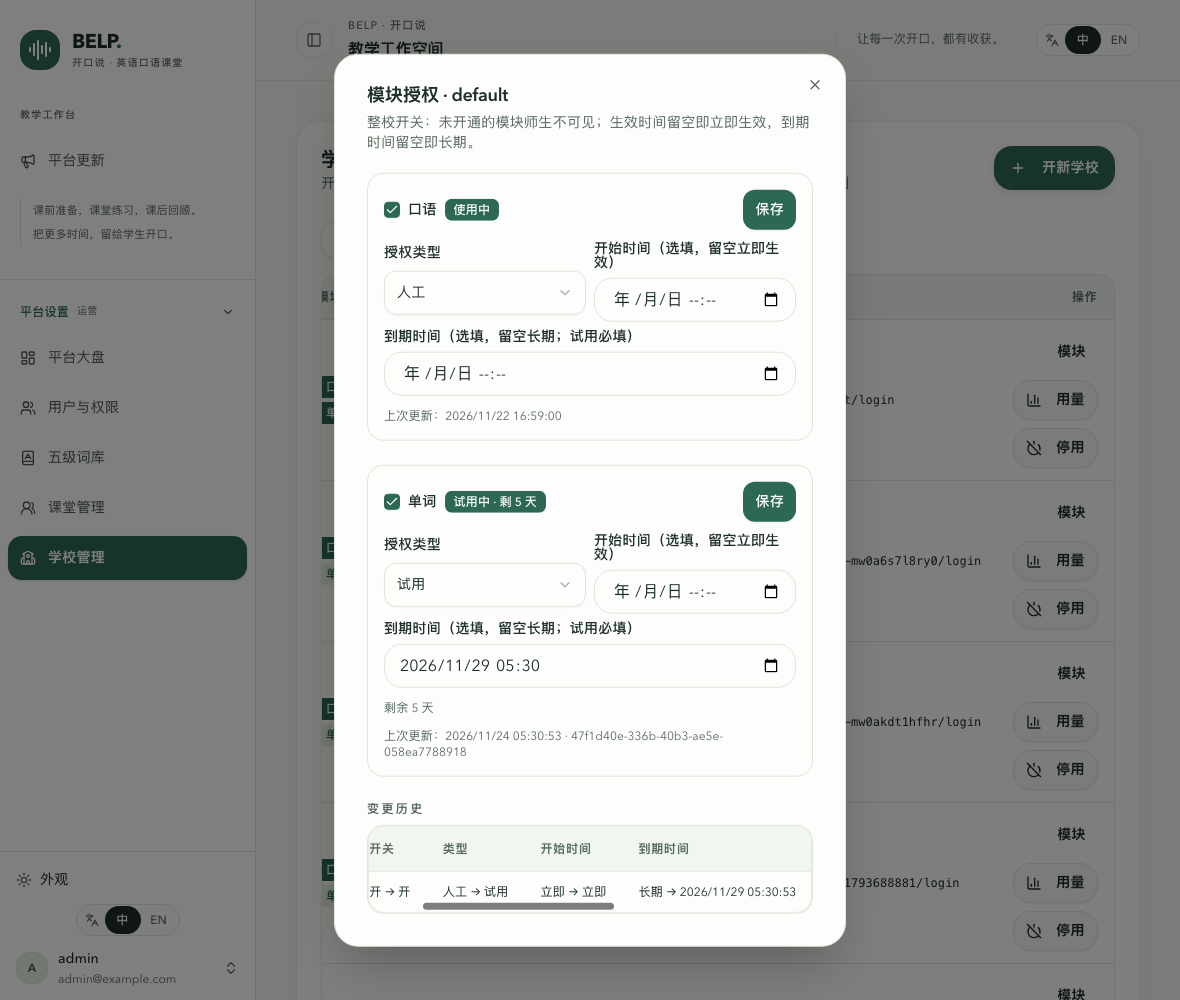
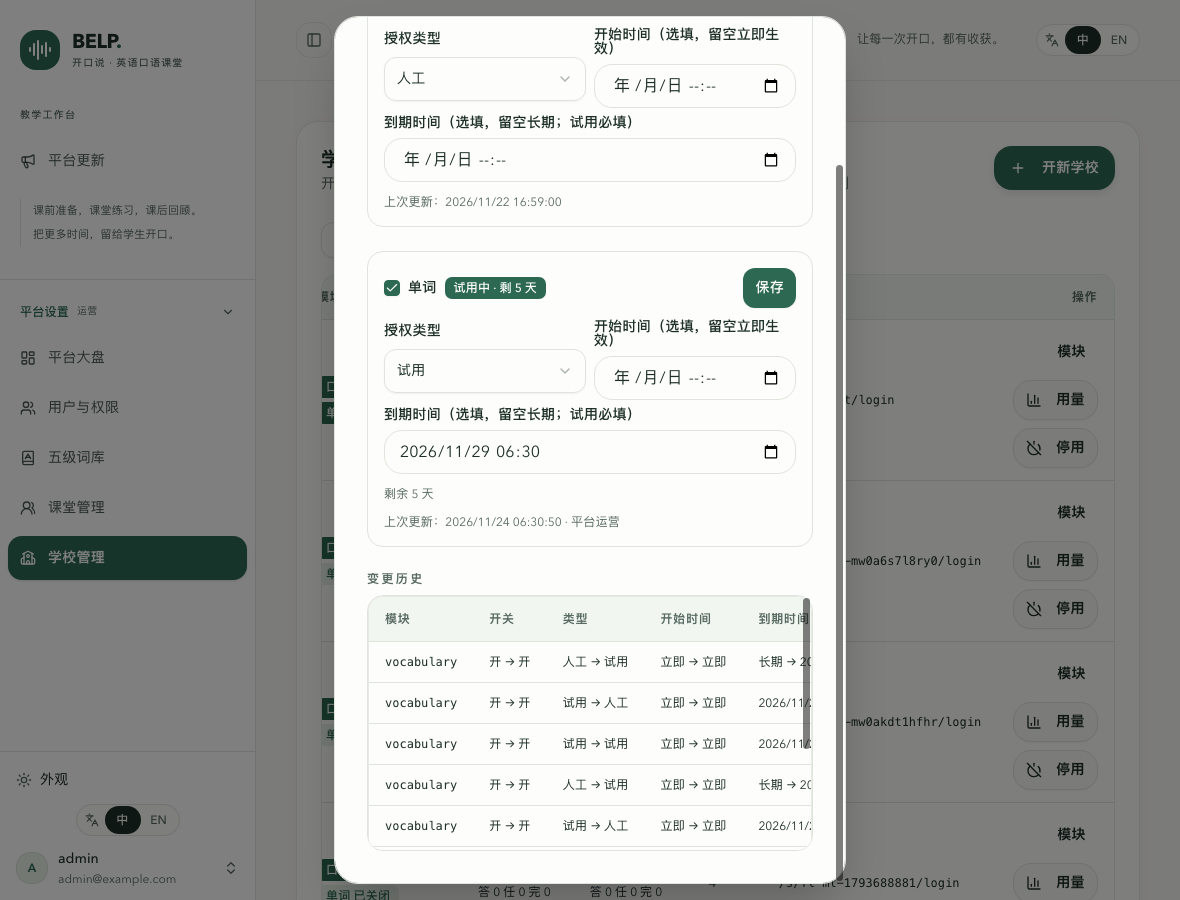
docs(evidence): #517 复拍模块/审计弹窗，操作人显示平台运营、去除 UUID 残留 (#517)

diff --git a/docs/evidence/517-tenant-license-usage-20261124/README.md b/docs/evidence/517-tenant-license-usage-20261124/README.md
@@ -8,8 +8,8 @@
 |---|---|
 | Worktree | `…/agents/o_000VxxkxFsS/tenant-ops` |
 | 分支 | `feat/tenant-license-usage-20261124` |
-| 取证时 HEAD | `2020e7305ba3965531b2cd5c3f1f8a797d1a049f`（英文剩余天数单复数修复：1 天显示 `1 day left`） |
-| 任务基线 HEAD | `e39e4e7`；其上依次为 `4b0b9cd`（后端到期日校验）、`48afbe6`（首轮证据提交）、`2020e73`（单复数修复） |
+| 取证时 HEAD | `eef628dd1b656317ab6d542dd7ee82ae0a40b591`（操作人不再展示内部 UUID，统一归为“平台运营 / Platform operator”） |
+| 任务基线 HEAD | `e39e4e7`；其上依次为 `4b0b9cd`（后端到期日校验）、`48afbe6`（首轮证据提交）、`2020e73`（单复数修复）、`826aa5b`（二轮证据提交）、`eef628d`（操作人去 UUID） |
 | 工作区状态 | 除本证据目录外无改动，未修改任何业务代码 |
 | 后端 | `127.0.0.1:8006`（uvicorn，代码即本 worktree） |
 | 前端 | `127.0.0.1:5176`（Vite，`API_PROXY_TARGET=http://127.0.0.1:8006`） |
@@ -49,9 +49,9 @@
 | `04-list-1180-en.png` | 1180 / 英文 | Vocabulary: Trial · 5 days left / Expired / Closed / Not granted / Scheduled / Active | 英文徽标齐全；Closed ≠ Expired；界面文案无中文残留（校名除外） |
 | `05-list-390-en.png` | 390 / 英文 | Schools / New school / All schools / CODE / NAME 全英文 | 390 无整页横溢；无中文 UI 残留 |
 | `06-filter-expiring7-1180-zh.png` | 1180 / 中文 | 筛选下拉选中“7 天内到期”；结果仅 `default`（剩 5 天）与 `demo-lic-trial`（剩 5 天） | 7 天到期筛选不出现 expired / closed / not_granted / scheduled / active |
-| `07-module-dialog-1180-zh.png` | 1180 / 中文 | 默认校单词试用卡：状态“试用中·剩 5 天”、授权类型“试用”、到期 `2026/11/29 05:30`、剩余 5 天；变更历史行可见 | 字段完整；审计前后值可见（非只显示当前值） |
-| `08-module-dialog-820-en.png` | 820 / 英文（390 兜底，见 §7） | Module access · default；Speaking Active Manual；Vocabulary Trial · 5 days left，Grant Trial，Expiry `2026/11/29 05:30`；Change history `Manual → Trial` | 字段完整、弹窗内可读；390 布局经 JS 实测见 §5 |
-| `09-audit-table-1180-zh.png` | 1180 / 中文 | 变更历史行：开关 `开 → 开`、类型 `人工 → 试用`、开始 `立即 → 立即`、到期 `长期 → 2026/11/29 05:30:53` | `grant_type_before → after`、`expires_at_before → after` 清楚可读；审计表容器可横滑 |
+| `07-module-dialog-1180-zh.png` | 1180 / 中文 | 默认校单词试用卡：状态“试用中·剩 5 天”、授权类型“试用”、到期 `2026/11/29 06:30`、剩余 5 天；“上次更新：…· **平台运营**”；变更历史行可见 | 字段完整；审计前后值可见（非只显示当前值）；操作人显示“平台运营”，画面无 UUID |
+| `08-module-dialog-820-en.png` | 820 / 英文（390 兜底，见 §7） | Module access · default；Speaking Active Manual；Vocabulary Trial · 5 days left，Grant Trial，Expiry `2026/11/29 06:30`；`Last updated: … · **Platform operator**`；Change history `Manual → Trial` | 字段完整、弹窗内可读；操作人显示 `Platform operator`，画面无 UUID；390 布局经 JS 实测见 §5 |
+| `09-audit-table-1180-zh.png` | 1180 / 中文 | 变更历史行：开关 `开 → 开`、类型 `人工 → 试用`、开始 `立即 → 立即`、到期 `长期 → 2026/11/29 06:30:50`；操作人列 DOM 显示 `平台运营`（画面因表内横滑未整列露出） | `grant_type_before → after`、`expires_at_before → after` 清楚可读；操作人无 UUID；审计表容器可横滑 |
 | `10-usage-dialog-1180-zh.png` | 1180 / 中文 | 学校用量 · default，区间 `2026/10/26 – 2026/11/24`；9 项总量卡；口径说明 2 条；每日明细表头与前若干行 | 9 项 totals、每日表、两条 limitations 均在；无学生标识 |
 | `11-usage-dialog-820-en.png` | 820 / 英文（390 兜底，见 §7） | School usage · default；From/To 同区间；Download CSV；Notes 2 条；9 张英文指标卡；每日表 DATE/TEACHERS/… | totals 与弹窗一致；390 布局经 JS 实测见 §5；无中文 UI 残留 |
 
@@ -120,7 +120,7 @@
 - **trial 必填到期**：
   - 前端 `validateModuleForm`：trial 未填到期 → 双语错误“试用必须设置到期时间 / A trial requires an expiry date”。
   - 后端实测探针：`PUT …/modules/vocabulary` 带 `grant_type=trial, expires_at=null` → **HTTP 422**，`detail=trial_requires_expires_at`，数据未被改写；填到期后保存成功（模块弹窗 07/08 即为填到期后的成功态）。
-- **审计前后值**：默认校单词模块共 **8 条** grant 记录（两轮取证写入；自下而上）：
+- **审计前后值**：默认校单词模块共 **10 条** grant 记录（三轮取证写入；自下而上）：
   1. `manual → trial`，到期 `长期 → 2026-11-29 13:30:53Z`
   2. `trial → trial`，到期 `2026-11-29 → 2026-12-24`（+30d 档）
   3. `trial → trial`，到期 `2026-12-24 → 2026-12-01`（+7d 档）
@@ -129,7 +129,10 @@
   6. `manual → trial`，到期 `长期 → 2026-11-25 14:09:19Z`（二轮 +1d 档）
   7. `trial → trial`，到期 `2026-11-25 → 2026-11-29 14:10:14Z`（二轮 +5d 档）
   8. `trial → manual`，到期 `2026-11-29 → 长期`（二轮恢复长期）
-  - 审计表同时保存 before / after，截图 09 可见 `人工 → 试用`、`长期 → 2026/11/29 05:30:53`。
+  9. `manual → trial`，到期 `长期 → 2026-11-29 14:30:50Z`（三轮 +5d 档）
+  10. `trial → manual`，到期 `2026-11-29 14:30:50Z → 长期`（三轮恢复长期）
+  - 审计表同时保存 before / after，截图 09 可见 `人工 → 试用`、`长期 → 2026/11/29 06:30:50`。
+  - **操作人**：界面“上次更新”与审计“操作人”列统一显示 `平台运营 / Platform operator`，不再直出内部 `actor_operator_id` UUID（eef628d 修复）；本轮 DOM 与截图正则扫描 0 个 UUID。
 - **用量口径**：9 项指标按本地自然日聚合，区间总量为每日行求和、去重项单日去重；界面只出聚合数，无学生/教师标识。两条 limitations：
   1. 活跃口径不含仅登录用户：当前没有登录日志或 `last_login_at`；活跃教师=当天有教学操作的去重教师，活跃学生=当天有词汇作答的去重学生。
   2. `farm_harvests` 为下限口径：农场只保存累计 `harvest_count` 与最近一次 `last_harvested_at`，无逐日收获事件；本数是“最近一次收获落在当日”的地块数，非当日真实收获次数。
